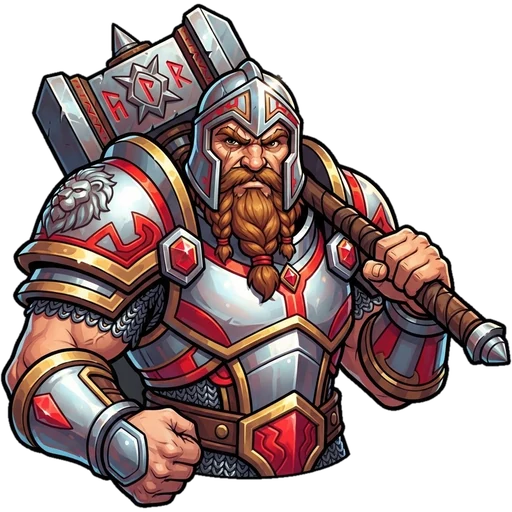
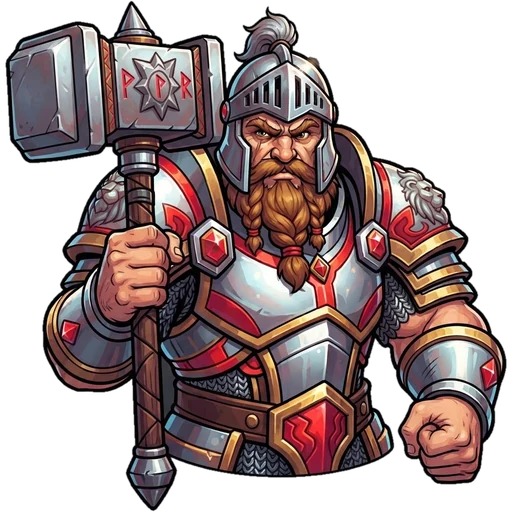
v9.78.10 : nouveau Guerrier (marteau corrigé)
Claude-Session: https://claude.ai/code/session_014VBvzn7cPipHkoepy8RC9p

diff --git a/index.html b/index.html
@@ -6354,10 +6354,10 @@ function doImport() {
 
 
 /* ===================== Nouveautés (à mettre à jour à chaque version) ===================== */
-const APP_VERSION = '9.78.9'; // ⚠ Mettre aussi le même numéro dans version.json (sinon pas de mise à jour automatique)
+const APP_VERSION = '9.78.10'; // ⚠ Mettre aussi le même numéro dans version.json (sinon pas de mise à jour automatique)
 /* Notes de mise à jour : UNE seule entrée par jour. Si une entrée existe déjà pour aujourd'hui, mets-la à jour (v = dernière version, ajoute/réécris les puces) au lieu d'en ajouter une nouvelle. */
 const CHANGELOG = [
-  {v: '9.78.9', d: '2026-11-18', fr: ['Classes : les 4 classes ont leur personnage illustré, en version homme et femme (choix d\'apparence dans le choix de classe).', 'Classes : choisis ta classe (Guerrier, Rôdeur, Moine ou Soigneur). L\'appli te conseille celle qui colle à tes 4 dernières semaines, avec la raison. Tu peux la changer une fois par semaine, et chaque classe gagne des titres de maîtrise avec le temps (carte « Ta classe » dans Guilde, étape à la création du profil).', 'Rotation de l\'écran : la page revient à la même place, même si l\'écran se redessine.', 'Boss : la série qui fait tomber le boss (charge exceptionnelle) n\'est plus prise comme « précédent » ni comme poids proposé à la prochaine séance.', 'Séance : le trophée d\'un record battu est de nouveau visible sur le bouton jaune.', 'Guilde : la « Semaine à thème » est supprimée.', 'Quand tu tournes l\'écran, la page reste à la même place.', 'Montre : le titre qui défile affiche ta dernière performance sur l\'exercice (comme Hevy).', 'Montre : après un échauffement, le repos affiché est tout de suite le bon (45 s par défaut) au lieu de montrer 3 min puis de changer.', 'Synchronisation entre appareils : si tu t\'entraînes sur un autre appareil (téléphone, tablette, navigateur), celui-ci récupère tout seul tes séances, routines, réglages et ta guilde à l\'ouverture. Si les deux ont des changements, l\'appli te demande avant de remplacer.', 'Bannières plus hautes : le décor n\'est plus coupé en haut et en bas.', 'Bannières plus lumineuses : le décor se voit beaucoup mieux (seul le bord gauche reste assombri pour le nom).', 'Le mode développeur ne débloque plus les bannières de guilde.', 'Bannières de guilde : chaque niveau de guilde en débloque de nouvelles (3 au départ, toutes au niveau 8).', 'Auras de série beaucoup plus visibles : plus de particules, plus grosses, avec un halo et un anneau de couleur.', 'Nouvel effet de fin de séance « Arc-en-ciel » : arc lumineux qui se dessine avec des nuages et de la poussière d\'étoiles.', 'Guilde : tu peux inviter directement un ami. Il reçoit une notification et accepte ou refuse (le code reste disponible pour partager).', 'Particules retirées des bannières (elles se figeaient pendant le défilement et jouaient mal avec les peintures).', 'Les 18 bannières sont maintenant de vrais décors peints (village à l\'aube, forge des nains, antre du dragon, cité céleste, kraken des abysses, etc.), avec les particules animées par-dessus.', 'Mode développeur : galerie de tous les boss avec leurs états (normal, enragé, agonie, vaincu, inconnu), un coup et la fenêtre de victoire.', 'Les 6 boss de raid ont maintenant leur portrait peint.', 'Raid de guilde revu : il se fait avec les membres de ta guilde (tout le monde voit le même), seuls ceux qui s\'entraînent cette semaine ajoutent des PV, et chacun a sa barre avec sa part.', 'Carte de héros : elle brille quand tu portes un ensemble complet, et devient mythique au Prestige ou avec l\'ensemble Grand Maître.', 'Les 12 boss ont maintenant de vrais portraits peints, avec une lueur rouge quand ils sont enragés, des fissures à l\'agonie, et une fenêtre de victoire où le boss s\'écroule.'], en: ['Classes: all 4 classes now have an illustrated character, in male and female versions (look choice in the class picker).', 'Classes: pick your class (Warrior, Ranger, Monk or Healer). The app suggests the one that fits your last 4 weeks, with the reason. You can change it once a week, and each class earns mastery titles over time (Your class card in Guild, step when creating your profile).', 'Screen rotation: the page returns to the same spot, even if the screen redraws.', 'Boss: the set that defeats the boss (an exceptional load) is no longer used as the "previous" value or the suggested weight next session.', 'Workout: the trophy on a new-record button is visible again on the yellow button.', 'Guild: the Theme Week card is removed.', 'When you rotate the screen, the page stays in place.', 'Watch: the scrolling title shows your last performance on the exercise (like Hevy).', 'Watch: after a warm-up set, the rest timer now shows the right time immediately (45 s by default) instead of 3 min then jumping.', 'Sync between devices: if you train on another device (phone, tablet, browser), this one automatically pulls your workouts, routines, settings and guild when opened. If both have changes, the app asks before replacing.', 'Taller banners: the scene is no longer cropped at top and bottom.', 'Brighter banners: the scene is much more visible (only the left edge stays dark for the name).', 'Developer mode no longer unlocks guild banners.', 'Guild banners: each guild level unlocks new ones (3 at start, all at level 8).', 'Set auras are much more visible: more and bigger particles, with a glow and a colored ring.', 'New "Rainbow" workout-end effect: a glowing arc that draws itself with clouds and stardust.', 'Guild: you can invite a friend directly. They get a notification and accept or decline (the code is still there to share).', 'Particles removed from banners (they froze while scrolling and clashed with the paintings).', 'All 18 banners are now real painted scenes (village at dawn, dwarven forge, dragon\'s lair, celestial city, abyssal kraken, etc.), with animated particles on top.', 'Developer mode: gallery of all bosses with their states (normal, enraged, dying, defeated, unknown), a hit and the victory window.', 'The 6 raid bosses now have painted portraits.', 'Guild raid reworked: it uses your guild members (everyone sees the same one), only those who train this week add HP, and each has a bar showing their share.', 'Hero card: it shines when you wear a full set, and turns mythic at Prestige or with the Grandmaster set.', 'The 12 bosses now have real painted portraits, with a red glow when enraged, cracks when dying, and a victory window where the boss collapses.']},
+  {v: '9.78.10', d: '2026-11-18', fr: ['Classes : les 4 classes ont leur personnage illustré, en version homme et femme (choix d\'apparence dans le choix de classe).', 'Classes : choisis ta classe (Guerrier, Rôdeur, Moine ou Soigneur). L\'appli te conseille celle qui colle à tes 4 dernières semaines, avec la raison. Tu peux la changer une fois par semaine, et chaque classe gagne des titres de maîtrise avec le temps (carte « Ta classe » dans Guilde, étape à la création du profil).', 'Rotation de l\'écran : la page revient à la même place, même si l\'écran se redessine.', 'Boss : la série qui fait tomber le boss (charge exceptionnelle) n\'est plus prise comme « précédent » ni comme poids proposé à la prochaine séance.', 'Séance : le trophée d\'un record battu est de nouveau visible sur le bouton jaune.', 'Guilde : la « Semaine à thème » est supprimée.', 'Quand tu tournes l\'écran, la page reste à la même place.', 'Montre : le titre qui défile affiche ta dernière performance sur l\'exercice (comme Hevy).', 'Montre : après un échauffement, le repos affiché est tout de suite le bon (45 s par défaut) au lieu de montrer 3 min puis de changer.', 'Synchronisation entre appareils : si tu t\'entraînes sur un autre appareil (téléphone, tablette, navigateur), celui-ci récupère tout seul tes séances, routines, réglages et ta guilde à l\'ouverture. Si les deux ont des changements, l\'appli te demande avant de remplacer.', 'Bannières plus hautes : le décor n\'est plus coupé en haut et en bas.', 'Bannières plus lumineuses : le décor se voit beaucoup mieux (seul le bord gauche reste assombri pour le nom).', 'Le mode développeur ne débloque plus les bannières de guilde.', 'Bannières de guilde : chaque niveau de guilde en débloque de nouvelles (3 au départ, toutes au niveau 8).', 'Auras de série beaucoup plus visibles : plus de particules, plus grosses, avec un halo et un anneau de couleur.', 'Nouvel effet de fin de séance « Arc-en-ciel » : arc lumineux qui se dessine avec des nuages et de la poussière d\'étoiles.', 'Guilde : tu peux inviter directement un ami. Il reçoit une notification et accepte ou refuse (le code reste disponible pour partager).', 'Particules retirées des bannières (elles se figeaient pendant le défilement et jouaient mal avec les peintures).', 'Les 18 bannières sont maintenant de vrais décors peints (village à l\'aube, forge des nains, antre du dragon, cité céleste, kraken des abysses, etc.), avec les particules animées par-dessus.', 'Mode développeur : galerie de tous les boss avec leurs états (normal, enragé, agonie, vaincu, inconnu), un coup et la fenêtre de victoire.', 'Les 6 boss de raid ont maintenant leur portrait peint.', 'Raid de guilde revu : il se fait avec les membres de ta guilde (tout le monde voit le même), seuls ceux qui s\'entraînent cette semaine ajoutent des PV, et chacun a sa barre avec sa part.', 'Carte de héros : elle brille quand tu portes un ensemble complet, et devient mythique au Prestige ou avec l\'ensemble Grand Maître.', 'Les 12 boss ont maintenant de vrais portraits peints, avec une lueur rouge quand ils sont enragés, des fissures à l\'agonie, et une fenêtre de victoire où le boss s\'écroule.'], en: ['Classes: all 4 classes now have an illustrated character, in male and female versions (look choice in the class picker).', 'Classes: pick your class (Warrior, Ranger, Monk or Healer). The app suggests the one that fits your last 4 weeks, with the reason. You can change it once a week, and each class earns mastery titles over time (Your class card in Guild, step when creating your profile).', 'Screen rotation: the page returns to the same spot, even if the screen redraws.', 'Boss: the set that defeats the boss (an exceptional load) is no longer used as the "previous" value or the suggested weight next session.', 'Workout: the trophy on a new-record button is visible again on the yellow button.', 'Guild: the Theme Week card is removed.', 'When you rotate the screen, the page stays in place.', 'Watch: the scrolling title shows your last performance on the exercise (like Hevy).', 'Watch: after a warm-up set, the rest timer now shows the right time immediately (45 s by default) instead of 3 min then jumping.', 'Sync between devices: if you train on another device (phone, tablet, browser), this one automatically pulls your workouts, routines, settings and guild when opened. If both have changes, the app asks before replacing.', 'Taller banners: the scene is no longer cropped at top and bottom.', 'Brighter banners: the scene is much more visible (only the left edge stays dark for the name).', 'Developer mode no longer unlocks guild banners.', 'Guild banners: each guild level unlocks new ones (3 at start, all at level 8).', 'Set auras are much more visible: more and bigger particles, with a glow and a colored ring.', 'New "Rainbow" workout-end effect: a glowing arc that draws itself with clouds and stardust.', 'Guild: you can invite a friend directly. They get a notification and accept or decline (the code is still there to share).', 'Particles removed from banners (they froze while scrolling and clashed with the paintings).', 'All 18 banners are now real painted scenes (village at dawn, dwarven forge, dragon\'s lair, celestial city, abyssal kraken, etc.), with animated particles on top.', 'Developer mode: gallery of all bosses with their states (normal, enraged, dying, defeated, unknown), a hit and the victory window.', 'The 6 raid bosses now have painted portraits.', 'Guild raid reworked: it uses your guild members (everyone sees the same one), only those who train this week add HP, and each has a bar showing their share.', 'Hero card: it shines when you wear a full set, and turns mythic at Prestige or with the Grandmaster set.', 'The 12 bosses now have real painted portraits, with a red glow when enraged, cracks when dying, and a victory window where the boss collapses.']},
   {v: '9.77.0', d: '2026-11-17', fr: ['Guilde : de vraies guildes entre amis. Crée la tienne ou rejoins-en une avec un code ; toute l\'XP des membres fait monter son niveau et débloque des récompenses de guilde.', 'Boss dessinés : chaque boss a son portrait, ses PV et ses phases (enragé, à l\'agonie). Pendant ta séance, chaque série sur l\'exercice du boss lui porte un coup.', 'Nouveau Bestiaire : les boss que tu as vaincus, les autres en silhouette.', 'Le donjon de la semaine devient une carte à 5 salles, avec le coffre au bout.', 'Semaine à thème : un groupe de muscles différent chaque lundi, +300 XP.', 'Armurerie : ta carte de héros (holographique avec un objet Légendaire ou Mythique), les Ensembles, une animation quand tu débloques une récompense, et des bannières animées sur ton profil.', '🛠 iPhone : le titre en haut redescend sous la zone floue d\'Apple (appli installée).', '🛠 Android : les Réglages ne peuvent plus figer l\'appli si Health Connect était en cours de vérification.', '🛠 Android sans montre : l\'appli n\'appelle plus le service montre de Google quand il n\'existe pas sur le téléphone (il pouvait bloquer l\'appli plusieurs secondes).', '📱 Appli Android : ta séance et ton repos sur l\'écran verrouillé (compte à rebours, « +30 s », « Passer »), un widget pour l\'écran d\'accueil (routine du jour, série de semaines, bouton Commencer) et les nouvelles de tes amis même appli fermée (séance terminée, demande d\'ami, défi, encouragement). Réglages → Téléphone Android.', '🐞 Les erreurs de l\'appli sont signalées automatiquement pour être corrigées plus vite (jamais tes séances). Tu peux le couper dans Réglages → Données et compte.', '⚡ Guilde plus rapide : les sections fermées ne sont plus préparées en avance, seulement quand tu les ouvres.', '⚡ Appli Android : plus de latence en changeant d\'onglet. Les données pour la montre ne sont plus recalculées après chaque écran, seulement quand une montre est jumelée et que quelque chose a changé.', '⚡ Onglets instantanés : en touchant un onglet en bas, il s\'affiche net tout de suite, sans fondu. Les autres écrans s\'ouvrent avec un effet beaucoup plus court.', '⚡ Plus fluide : les effets animés (cadres qui tournent, lueurs, bannières) se mettent en pause pendant que tu défiles ou glisses, et restent fixes dans les listes d\'amis et l\'Armurerie. Pendant un glissement, la page suit mieux ton doigt.', '⚡ Le glissement entre onglets marche aussi en partant du haut de l\'écran (le titre), et un glissement plus court ou plus lent suffit.', '⚡ Glisser d\'un onglet à l\'autre est instantané : le nouvel onglet apparaît tout de suite et glisse en place, sans écran vide entre les deux.', '⚡ Plus rapide : les photos de tes amis se chargent seulement quand elles arrivent à l\'écran (la page Amis s\'ouvre beaucoup plus vite), leur copie sur le téléphone est plus légère, et les gros calculs (médailles, niveau) sont préparés à l\'ouverture de l\'appli.', '🛠 Le glissement d\'un onglet à l\'autre refonctionne comme avant.', '⚡ Appli plus fluide : moins de travail en arrière-plan (photos envoyées une à une quand l\'appli ne fait rien, photos de la fiche Amis préparées une seule fois, copie hors ligne retirée).', '⚡ Onglets plus rapides : la Guilde s\'ouvre environ 7 fois plus vite et le Profil environ 4 fois plus vite avec un gros historique. Les transitions entre les écrans sont aussi plus courtes.', '🛠 La page ne « recharge » plus en fondu sombre à chaque petite mise à jour (amis en direct, sauvegarde, etc.) : le fondu se fait seulement en changeant d\'écran.', '🛠 Défiler vite ne rend plus la page sombre : un défilement vers le bas n\'est plus pris pour un glissement d\'onglet, et la page ne s\'assombrit plus pendant un glissement.', '❤ Health Connect : si l\'envoi d\'une séance rate au moment de « Terminer », l\'appli la renvoie toute seule à la prochaine ouverture. Avec la nouvelle appli Android, tes séances apparaissent comme « Musculation » dans Samsung Health (au lieu de « Autre entraînement »).', '📱 iPhone : le haut de l\'appli installée n\'est plus flou. Avec iOS 26, Apple ajoute une zone floue sous l\'heure : le haut de l\'appli descend maintenant juste en dessous.', '🛠 Amis : avec un réseau très lent, l\'appli n\'empile plus plusieurs envois de ta fiche en attente. Android : la reconnexion automatique ne se fait qu\'une fois par ouverture (plus de petite fenêtre de compte qui revient).', '🛠 Correction : après un glissement interrompu entre deux onglets, la page pouvait rester un peu décalée et sombre. Elle se remet maintenant en place toute seule.', '💾 Sauvegarde simplifiée : il reste la sauvegarde Runelift automatique et la copie de sécurité en fichier. Google Drive et GitHub disparaissent des réglages (sauf pour qui les utilise encore).', '📸 Photos : tes photos de progrès et de séances sont maintenant dans ta sauvegarde Runelift (jusqu\'à 500), en version légère. Sur un nouveau téléphone, elles reviennent toutes seules. Google Drive n\'est plus utilisé, donc plus de fenêtre Google Drive.', '🔐 Connexion et synchro : sur Android, si la connexion Google saute, l\'appli se reconnecte toute seule avec ton compte, sans fenêtre. Sans réseau (au gym), tes séances et ta fiche Amis sont gardées et partent toutes seules dès que le réseau revient.', '🔐 Connexion : plus besoin de te demander si tu es connecté. Si ta connexion Google est coupée, une page s\'ouvre toute seule avec un bouton pour te reconnecter (jamais pendant une séance). Le compte Google est maintenant nécessaire dès le début.', '👥 Amis : ta séance arrive maintenant toujours sur ta fiche. Si l\'envoi échoue (mauvais signal) ou tombe en même temps qu\'un autre, l\'appli le refait toute seule à la prochaine ouverture. Avant, une séance pouvait rester invisible pour tes amis.', '✨ Boss du mois : l\'affichage précise maintenant « ton meilleur avant ce mois » et ton 1RM estimé de ce mois-ci une fois le boss vaincu.', '✨ Quête du jour : elle suit maintenant ta routine du jour (celle prévue ou celle que tu fais). Plus de pompes un jour de Pull, et jamais plus de séries ou d\'exercices que ta routine en a. Les objectifs de répétitions, de charge totale et de durée se basent sur la dernière fois que tu as fait cette routine.', '⌚ Montre : si tu lances une séance depuis la montre et que le téléphone répond trop tard, il n\'en crée plus une deuxième en double.', '⌚ Montre : « Remplacer » fonctionne aussi sans le téléphone, et les images des exercices sont envoyées autrement pour mieux s\'afficher.', '⌚ Montre : « Remplacer l\'exercice » dans les options, avec les exercices similaires en premier puis les tiens. Abandonner demande maintenant une confirmation, et le bouton est aussi en bas de la liste des exercices.', '⌚ Montre autonome : si ton téléphone est loin ou si Runelift est fermé, la montre fait la séance seule et l\'envoie au téléphone à la fin (avec ton cardio). Nouvelle tuile Runelift (glisse à gauche depuis le cadran) pour commencer la routine du jour en un toucher. La lunette tactile monte et descend la charge et les reps. Les images des exercices sont envoyées par le téléphone.', '⌚ Montre : charges par 0,5, fais glisser ton doigt sur la charge ou les reps pour défiler vite (avec élan), la lunette accélère quand tu tournes vite, images des exercices, et l\'icône Runelift reste en bas du cadran pendant la séance.', '⌚ Montre : la routine prévue aujourd\'hui est en premier, touche une routine pour voir ses exercices avant de commencer. Pendant la séance, glisse à gauche pour voir tous tes exercices et à droite pour les options (ajouter, changer le type ou supprimer une série, terminer ou abandonner). La montre prend la couleur choisie sur ton téléphone et affiche ta série précédente. Une notification sur le téléphone te prévient quand une séance démarre depuis la montre.', '⌚ Montre, comme Hevy : démarre une routine depuis la montre, ajuste la charge et les répétitions avec les boutons ou la lunette avant de cocher, et termine ta séance au poignet.', '⌚ Appli Runelift pour Galaxy Watch / Wear OS (test) : exercice et série en cours au poignet, bouton « Fait » pour cocher ta série, repos qui vibre sur la montre et fréquence cardiaque en direct dans ta séance. Le cardio mesuré par la montre est gardé dans la séance (moyenne, max et graphique).', '❤ Appli Android : la fréquence cardiaque de ta montre (via Samsung Health et Health Connect) s\'affiche dans chaque séance de l\'historique : moyenne, maximum et graphique.', '❤ Appli Android : Health Connect. Dans Réglages → Santé Android, active-le pour envoyer chaque séance (durée et calories estimées) vers Health Connect, Samsung Health et ta montre, et recevoir ton poids dans tes Mesures.'], en: ['Guild: real guilds with friends. Create yours or join one with a code; all members\' XP levels it up and unlocks guild rewards.', 'Drawn bosses: each boss has a portrait, HP and phases (enraged, dying). During your workout, each set on the boss exercise lands a hit.', 'New Bestiary: the bosses you defeated, the others as silhouettes.', 'The weekly dungeon is now a 5-room map with the chest at the end.', 'Theme week: a different muscle group every Monday, +300 XP.', 'Armory: your hero card (holographic with a Legendary or Mythic item), Sets, an animation when you unlock a reward, and animated banners on your profile.', '🛠 iPhone: the top title sits below Apple\'s blurred area again (installed app).', '🛠 Android: Settings can no longer freeze the app while Health Connect is being checked.', '🛠 Android without a watch: the app no longer calls Google\'s watch service when it is missing on the phone (it could freeze the app for several seconds).', '📱 Android app: your workout and rest on the lock screen (countdown, “+30 s”, “Skip”), a home screen widget (today\'s routine, weekly streak, Start button) and news from your friends even with the app closed (finished workout, friend request, challenge, cheer). Settings → Android phone.', '🐞 App errors are reported automatically so they get fixed faster (never your workouts). You can turn it off in Settings → Data & account.', '⚡ Faster Guild: closed sections are no longer prepared in advance, only when you open them.', '⚡ Android app: no more lag when switching tabs. Watch data is no longer recalculated after every screen, only when a watch is paired and something changed.', '⚡ Instant tabs: tapping a tab at the bottom shows it sharp right away, with no fade. Other screens open with a much shorter effect.', '⚡ Smoother: animated effects (spinning frames, glows, banners) pause while you scroll or swipe, and stay still in friend lists and the Armory. During a swipe the page follows your finger better.', '⚡ Swiping between tabs also works from the top of the screen (the title), and a shorter or slower swipe is enough.', '⚡ Swiping between tabs is instant: the new tab shows right away and slides into place, with no blank screen in between.', '⚡ Faster: your friends\' photos load only when they reach the screen (the Friends page opens much faster), their copy on the phone is lighter, and heavy calculations (medals, level) are prepared when the app opens.', '🛠 Swiping from one tab to another works again as before.', '⚡ Smoother app: less background work (photos sent one by one when the app is idle, Friends card photos prepared only once, offline copy removed).', '⚡ Faster tabs: the Guild opens about 7 times faster and the Profile about 4 times faster with a big history. Screen transitions are also shorter.', '🛠 The page no longer fades in dark again at every small update (live friends, backup, etc.): the fade only happens when changing screens.', '🛠 Fast scrolling no longer darkens the page: scrolling down is no longer mistaken for a tab swipe, and the page no longer dims during a swipe.', '❤ Health Connect: if sending a workout fails when you tap Finish, the app resends it by itself the next time it opens. With the new Android app, your workouts show as weight training in Samsung Health (instead of Other workout).', '📱 iPhone: the top of the installed app is no longer blurry. With iOS 26, Apple adds a blurry area under the clock: the top of the app now sits just below it.', '🛠 Friends: on a very slow network, the app no longer stacks several pending sends of your card. Android: automatic sign-in only runs once per opening (no account sheet coming back).', '🛠 Fix: after an interrupted swipe between tabs, the page could stay slightly shifted and dark. It now snaps back by itself.', '💾 Simpler backup: the automatic Runelift backup and the safety copy as a file remain. Google Drive and GitHub leave the settings (except for those still using them).', '📸 Photos: your progress and workout photos are now in your Runelift backup (up to 500), in a light version. On a new phone they come back by themselves. Google Drive is no longer used, so no more Google Drive window.', '🔐 Sign-in and sync: on Android, if the Google connection drops, the app signs you back in by itself, no window. Without network (at the gym), your workouts and Friends card are kept and sent automatically as soon as the network is back.', '🔐 Sign-in: no need to wonder whether you are signed in anymore. If your Google connection drops, a page opens by itself with a button to sign back in (never during a workout). A Google account is now required from the start.', '👥 Friends: your workout now always reaches your card. If sending fails (weak signal) or collides with another one, the app retries by itself next time you open it. Before, a workout could stay invisible to your friends.', '✨ Boss of the month: the card now says "your best before this month" and shows this month\'s estimated 1RM once the boss is defeated.', '✨ Daily quest: it now follows your routine of the day (planned or the one you are doing). No more push-ups on a Pull day, and never more sets or exercises than your routine has. Rep, total weight and duration goals are based on the last time you did this routine.', '⌚ Watch: "Replace exercise" in options, with similar exercises first, then yours. Discard now asks for confirmation, and the button is also at the bottom of the exercise list.', '⌚ Standalone watch: if your phone is far or Runelift is closed, the watch runs the workout alone and sends it to the phone at the end (with your heart rate). New Runelift tile (swipe left from the watch face) to start today\'s routine in one tap. The touch bezel raises and lowers weight and reps. Exercise images are sent by the phone.', '⌚ Watch: weights by 0.5, swipe on weight or reps to scroll fast (with momentum), the bezel speeds up when you turn fast, exercise images, and the Runelift icon stays at the bottom of the watch face during the workout.', '⌚ Watch: today\'s planned routine comes first, tap a routine to see its exercises before starting. During the workout, swipe left to see all your exercises and right for options (add, change type or delete a set, finish or discard). The watch uses the color chosen on your phone and shows your previous set. A phone notification tells you when a workout starts from the watch.', '⌚ Watch, like Hevy: start a routine from the watch, adjust weight and reps with the buttons or the bezel before checking, and finish your workout from your wrist.', '⌚ Runelift app for Galaxy Watch / Wear OS (test): current exercise and set on your wrist, a "Done" button to check your set, rest that vibrates on the watch and live heart rate in your workout. Heart rate measured by the watch is kept in the workout (average, max and chart).', '❤ Android app: your watch heart rate (via Samsung Health and Health Connect) shows in each workout in your history: average, max and chart.', '❤ Android app: Health Connect. In Settings → Android health, turn it on to send each workout (duration and estimated calories) to Health Connect, Samsung Health and your watch, and receive your weight in your Measures.']},
   {v: '9.64.5', d: '2026-11-16', fr: ['Connexion Google sur Android : envoie le jeton d\'identité à Firebase (au lieu du jeton d\'accès).', 'Connexion Google sur Android : utilise maintenant le projet Firebase pour que les comptes et les amis fonctionnent.', 'Connexion Google sur Android : le message d\'erreur indique maintenant la vraie cause.', 'Préparation de l\'appli Android : connexion Google native.', '📚 5 nouveaux programmes prêts (11 au total) : Débutant 2 jours, Force 5×5, Haltères seulement, PPL + Upper / Lower (5 jours) et Upper / Lower / Full body (3 jours).', '✨ Nouveau : séance générée selon ta récupération (écran Entraînement). Choisis 30, 45, 60 ou 90 minutes : l\'appli propose des exercices pour tes muscles reposés et ceux que tu as moins travaillés cette semaine, et laisse au repos les muscles fatigués. « Autre proposition » en donne une différente.', '🤖 Assistant IA amélioré : le message contient maintenant ton profil (âge, taille, poids, objectif, points forts et faibles, exercices qui stagnent) pour des conseils plus précis. Les boutons ChatGPT et Claude ouvrent l\'IA avec le message déjà écrit quand c\'est possible. L\'analyse donne un bilan même si tu n\'écris pas de question.', '🗓 Nouveau : bilan de la semaine. Il s\'ouvre tout seul au début de chaque semaine (séances, temps, volume, records, comparés à la semaine d\'avant) et reste disponible dans Statistiques.', 'Image de séance à partager : ton nom, ton niveau et ton rang apparaissent maintenant en bas, avec la signature Runelift.', '🎯 Nouveau : objectif de poids (Profil → Mesures et photos). Choisis ton poids visé : barre de progression et date estimée selon ta tendance.', 'Le chrono d\'une série, un minuteur d\'intervalles et une routine d\'étirements en cours reprennent maintenant après un rafraîchissement.', 'Fil des amis : la réaction « bravo » a maintenant une icône de fête au lieu d\'un pouce.', 'Le mode focus reste activé si la page se rafraîchit pendant la séance.', 'Le boss du mois s\'affiche aussi en mode focus, avec un texte plus court. Petits écrans : la charge (ex. 287.5) n\'est plus coupée dans les séries.', 'Petits écrans : la fenêtre « Modifier la séance » ne déborde plus. Dernières icônes dessinées à la place des émojis (Collection, demandes d\'ami, besoins estimés).', 'Le « +5 XP » quand tu coches une série reste affiché un peu plus longtemps (1,8 seconde).', 'Le minuteur de repos continue maintenant si tu rafraîchis la page ou si l\'appli se recharge.', 'Boss du mois mieux expliqué : pas besoin d\'une série en plus, une de tes séries normales suffit. Les choix proposés sont maintenant les plus faciles possibles (ex. 75×10 au lieu de 95×3) et dans ta fourchette de répétitions. Touche un choix pour le mettre dans ta prochaine série.', 'La langue de l\'appli suit maintenant celle de ton téléphone (ou celle choisie sur la page Runelift) dès la première ouverture.', 'Accueil : nouvelle phrase d\'accroche et icône dessinée pour le Mode Classique.', '🔗 Un lien d\'invitation demande maintenant ta confirmation avant d\'envoyer une demande d\'ami.', '🔒 Sécurité renforcée : tout ce qui vient d\'autres personnes (cartes d\'amis, classement mondial, demandes, liens de partage) est vérifié avant d\'être affiché, et personne ne peut s\'ajouter à tes amis sans que tu lui aies envoyé une demande.', '👥 Amis : un ami sans nom s\'affiche avec son @pseudo au lieu de « A friend », le classement explique pourquoi quelqu\'un n\'a pas encore de niveau, et la recherche te dit quoi faire quand elle ne trouve personne.', '📱 Petits écrans : les boutons au-dessus des routines ne dépassent plus.', '🇬🇧 Version anglaise plus complète : plusieurs boutons et réglages restaient en français, et le programme de départ des nouveaux comptes en anglais a maintenant des noms d\'exercices en anglais.', '🪨 Carnet Muscu s\'appelle maintenant Runelift ! Rien d\'autre ne change : tes séances, ta guilde et tes amis sont toujours là.'],
     en: ['Android app groundwork: native Google sign-in.', '📚 5 new ready-made programs (11 in total): Beginner 2 days, Strength 5×5, Dumbbells only, PPL + Upper / Lower (5 days) and Upper / Lower / Full body (3 days).', '✨ New: workout generated from your recovery (Training screen). Pick 30, 45, 60 or 90 minutes: the app suggests exercises for your rested muscles and the ones you trained less this week, and leaves tired muscles to rest. “Another suggestion” gives a different one.', '🤖 Better AI assistant: the message now includes your profile (age, height, weight, goal, strong and weak points, stalled exercises) for more precise advice. The ChatGPT and Claude buttons open the AI with the message already typed in when possible. The analysis gives a review even if you do not write a question.', '🗓 New: weekly recap. It opens by itself at the start of each week (workouts, time, volume, records, compared to the week before) and stays available in Statistics.', 'Workout image to share: your name, level and rank now appear at the bottom, with the Runelift signature.', '🎯 New: weight goal (Profile → Measurements and photos). Pick your target weight: progress bar and estimated date based on your trend.', 'A set stopwatch, an interval timer and a stretching routine in progress now resume after a refresh.', 'Friends feed: the “bravo” reaction now uses a party icon instead of a thumb.', 'Focus mode stays on if the page refreshes during a workout.', 'The monthly boss also shows in focus mode, with shorter text. Small screens: the weight (e.g. 287.5) is no longer cut off in set rows.', 'Small screens: the “Edit workout” window no longer overflows. Last emojis replaced by drawn icons (Collection, friend requests, estimated needs).', 'The “+5 XP” shown when you tick a set now stays on screen a bit longer (1.8 seconds).', 'The rest timer now keeps going if you refresh the page or the app reloads.', 'Monthly boss explained better: no extra set needed, one of your normal sets is enough. The suggested options are now the easiest possible (e.g. 75×10 instead of 95×3) and within your rep range. Tap one to put it in your next set.', 'The app language now follows your phone (or the one picked on the Runelift page) from the very first launch.', 'Welcome screen: new tagline and a drawn icon for Classic mode; units shown in English.', '🔗 An invitation link now asks for your confirmation before sending a friend request.', '📚 Popular programs and more messages are now in English.', '🔒 Stronger security: everything that comes from other people (friend cards, world ranking, requests, share links) is checked before being displayed, and nobody can add themselves to your friends unless you sent them a request.', '👥 Friends: a friend without a name shows their @username instead of “A friend”, the ranking explains why someone has no level yet, and search tells you what to do when it finds nobody.', '📱 Small screens: the buttons above your routines no longer overflow.', '🇬🇧 More complete English version: several buttons and settings were still in French, and the starter program for new English accounts now uses English exercise names.', '🪨 Carnet Muscu is now called Runelift! Nothing else changes: your workouts, guild and friends are all still here.']},
